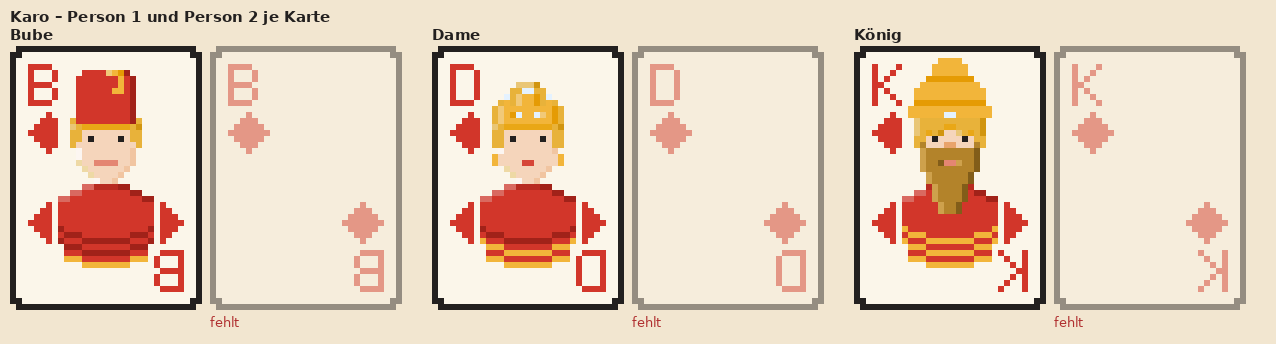
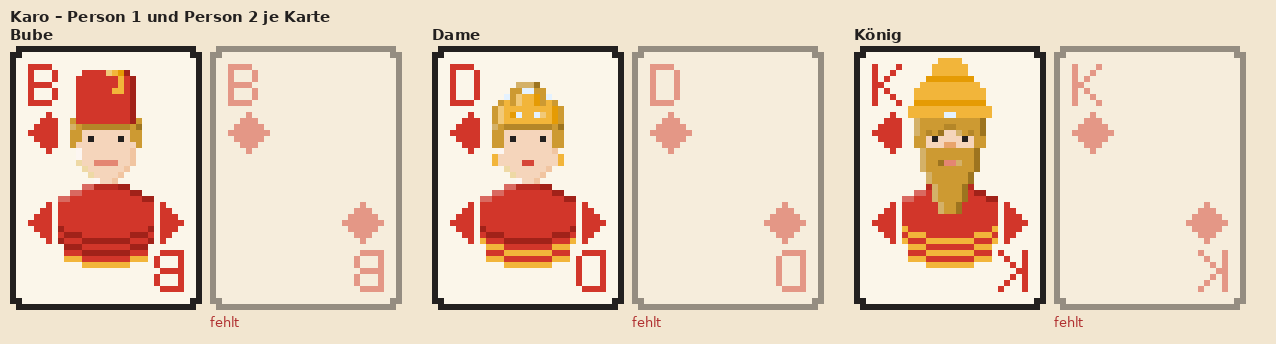
Bildkarten: Karo-Haar = Mix aus Blond und Bart, Varianten Herz-Grau und Herz/Kreuz-Braun
Claude-Session: https://claude.ai/code/session_01Tx2u5otHVnQBi24QLsTvXx

Changed region(s): [[0.703, 0.3198, 0.7947, 0.6395], [0.3668, 0.2326, 0.4585, 0.436], [0.0306, 0.3488, 0.1223, 0.436]]

diff --git a/design/bildkarten/code/vergleich_haar.py b/design/bildkarten/code/vergleich_haar.py
@@ -1,0 +1,46 @@
+"""Haar-Varianten: Herz grau heller, Herz/Kreuz Braun unterscheiden. Aufruf: python3 vergleich_haar.py [Ausgabeordner]"""
+import os,sys,copy
+sys.path.insert(0,os.path.dirname(os.path.abspath(__file__)))
+import lib
+from tiefe_vergleich import spec_of
+from final_auswahl import *
+def hair_sheet(path,keys,rows,S,crop,labels_fn):
+    cw=(crop[2]-crop[0])*S+8; rh=(crop[3]-crop[1])*S+8
+    im=Image.new('RGB',(190+len(keys)*cw,16+len(rows)*rh),BG); d=ImageDraw.Draw(im)
+    for ri,row in enumerate(rows):
+        for li,t in enumerate(labels_fn(row)): d.text((6,16+ri*rh+rh//2-18+li*16),t,fill=INK,font=FONT)
+        for ci,k in enumerate(keys):
+            s,r,sp=spec_of(k); sp=copy.deepcopy(sp); row['apply'](k,sp)
+            b=render(s,r,sp).crop(crop).resize(((crop[2]-crop[0])*S,(crop[3]-crop[1])*S),Image.NEAREST); im.paste(b,(190+ci*cw,16+ri*rh),b)
+    im.save(path)
+def grau(hexv):
+    def f(k,sp):
+        if hexv: sp['pal']['H']=sp['pal']['B']=hx(hexv)
+    return dict(apply=f,name=hexv)
+def braun(herz,kreuz):
+    def f(k,sp):
+        if k.startswith('herz') and herz: lib.HAIR['H']=hx(herz)
+        if k.startswith('kreuz'): sp['pal']['H']=hx(kreuz); sp['pal']['B']=hx(kreuz)
+    return dict(apply=f,name=(herz,kreuz),herz=herz)
+def main(out):
+    os.makedirs(out,exist_ok=True)
+    G=[('Aktuell','cfc8bd'),('G1','d6d0c6'),('G2','ddd8cf'),('G3','e4dfd7'),('G4 neutral','dcd9d4')]
+    rows=[dict(grau(h),label=n) for n,h in G]
+    hair_sheet(os.path.join(out,'herz_grau_vergleich.png'),['herz_koenig'],rows,12,(8,0,24,26),lambda r:[r['label'],'#'+r['name']])
+    # Braun: Herz und Kreuz unterscheiden (Herz-Wert wird pro Zeile gesetzt, danach zurück)
+    B=[('Aktuell','6b3f22','5a3a24'),('P1 Kreuz aschbraun','6b3f22','4a3a30'),('P2 Kreuz Espresso','6b3f22','4e3322'),('P3 Herz rötlicher','7a4526','5a3a24'),
+       ('P4 Herz rötlich + Kreuz asch','7a4526','4a3a30'),('P5 Kreuz Graubraun hell','6b3f22','5c4b3f'),('P6 Herz heller + Kreuz Espresso','7f4d2b','4e3322')]
+    old=lib.HAIR['H']; keys=['herz_bube_a','herz_dame_b','kreuz_bube_b','kreuz_dame_b','kreuz_koenig']
+    cw=16*6+8; rh=24*6+8
+    im=Image.new('RGB',(260+len(keys)*cw,16+len(B)*rh),BG); d=ImageDraw.Draw(im)
+    for ri,(n,h,k_) in enumerate(B):
+        d.text((6,16+ri*rh+rh//2-22),n,fill=INK,font=FONT); d.text((6,16+ri*rh+rh//2-4),'Herz #'+h,fill=INK,font=FONT); d.text((6,16+ri*rh+rh//2+12),'Kreuz #'+k_,fill=INK,font=FONT)
+        lib.HAIR['H']=hx(h)
+        for ci,k in enumerate(keys):
+            s,r,sp=spec_of(k); sp=copy.deepcopy(sp)
+            if k.startswith('kreuz'): sp['pal']['H']=hx(k_); sp['pal']['B']=hx(k_)
+            b=render(s,r,sp).crop((8,2,24,26)).resize((16*6,24*6),Image.NEAREST); im.paste(b,(260+ci*cw,16+ri*rh),b)
+    lib.HAIR['H']=old; im.save(os.path.join(out,'braun_vergleich.png')); print('ok')
+if __name__=='__main__':
+    here=os.path.dirname(os.path.abspath(__file__))
+    main(sys.argv[1] if len(sys.argv)>1 else os.path.join(here,'..','images','haar'))

diff --git a/design/bildkarten/code/farben_pro_familie.py b/design/bildkarten/code/farben_pro_familie.py
@@ -13,7 +13,7 @@ D={ # Familie: [(hex, Element, Personen, formel?)]
  ('6b3f22','Braunes Haar und Brauen','Bube A, Bube B, Dame A, Dame B',0),('cfc8bd','Grauer Bart','König',0),('f06a2d','Cheft-Orange 1.10: Federn, Edelsteine','Bube B, Dame A, König',0),
  ('a12219','Rot −0,13: Saumschattenlinien','Bube A, Bube B, Dame A, Dame B',1),('cccccc','Weiß −0,20: Turban- und Schleierfalten','Bube B, Dame A, König',1)],
 'Karo':[('d2362a','Rot: Kleidung, Fez, Mund der Dame','alle',0),('23201f','Schwarz: Augen, Brauen','alle',0),('f2b53a','Gold: Saumlinien, Turban, Diadem, Fezquaste, Ohrringe','alle',0),
- ('e8b23a','Blondes Haar','Bube, Dame, König',0),('%s'%h6(tiefe.lo(SKIN)),'Haut −0,13: Nase','König',1),('b3832a','Bart (dunkles Gold)','König',0),('f3cfae','Haut','alle',0),('d05a4a','Lippen','Bube, König',0),
+ ('cd9a32','Haar, Bart und Brauen (Mix aus Guide 1.27 und 1.31)','Bube, Dame, König',0),('%s'%h6(tiefe.lo(SKIN)),'Haut −0,13: Nase','König',1),('f3cfae','Haut','alle',0),('d05a4a','Lippen','Bube, König',0),
  ('e4f2ff','Diamantweiß: Juwelen im Diadem und Turban','Dame, König',0),
  ('a12219','Rot −0,13: Fezfalte, Saumschattenlinien','Bube, Dame',1),('e59b04','Gold −0,13: Turbanfalten','König',1)],
 'Kreuz':[('23201f','Schwarz: Kleidung, Augen, Federkappe','alle',0),('f2b53a','Gold: Saumlinien, Krone, Diadem, Falkenzeichnung','alle',0),

diff --git a/design/bildkarten/code/haarfarben_uebersicht.py b/design/bildkarten/code/haarfarben_uebersicht.py
@@ -8,8 +8,7 @@ from tiefe_vergleich import spec_of
 HAAR={
 'Herz':[('6b3f22','Haar und Brauen','Bube A, Bube B (nur Brauen), Dame A, Dame B','1.26 Haar Herz',''),
         ('cfc8bd','Haar, Bart und Brauen (grau)','König','–','Ausnahme: Alter, bewusst grau')],
-'Karo':[('e8b23a','Haar und Brauen (blond)','Bube, Dame, König','1.27 Haar Karo',''),
-        ('b3832a','Bart (dunkleres Gold)','König','1.31 Bart Karo','Ausnahme: Bart dunkler als Haar')],
+'Karo':[('cd9a32','Haar, Bart und Brauen (Mix aus Blond und Bart)','Bube, Dame, König','Mix aus 1.27 und 1.31','Ein Wert für die ganze Familie; rückgängig: KARO_MIX in lib.py')],
 'Kreuz':[('5a3a24','Haar, Brauen und Schnurrbart','alle (5 Personen)','–  (Guide 1.28 = #2b2b2b)','Strähnen der Zopfkrone per Formel (−0,13)')],
 'Pik':[('ffffff','Haar (weiß)','Bube, Dame, König','–  (Guide 1.29 = #8a4a2a)',''),
        ('23201f','Schnurrbart und Brauen (Tinte 1.01)','König Zwilling (Glatze)','1.01 Tinte','Ausnahme: Glatze, Schnurrbart braucht Kontrast')],

diff --git a/design/bildkarten/code/lib.py b/design/bildkarten/code/lib.py
@@ -14,6 +14,8 @@ C={k:T(v) for k,v in GUIDE_IDS.items()}
 SKIN=dict(H=hx('e3b58c'),D=hx('f5d5bb'),C=hx('edc4a3'),S=hx('f8e8dc'))   # Satz B, Karo/Kreuz = Mitte H1/H2 (freigegeben)
 HAIR=dict(H=T('1.26'),D=T('1.27'),C=T('1.28'),S=T('1.29'))
 BEARD=dict(H=T('1.30'),D=T('1.31'),C=T('1.32'),S=T('1.33'))
+KARO_MIX=True   # Karo: Haar, Bart und Brauen = Mitte aus Guide 1.27 (Haar Karo) und 1.31 (Bart Karo); False = rückgängig
+if KARO_MIX: HAIR['D']=BEARD['D']=tuple((a+b)//2 for a,b in zip(HAIR['D'],BEARD['D']))
 
 import os
 _ROOT=os.path.abspath(os.path.join(os.path.dirname(os.path.abspath(__file__)),'..','..','..'))
